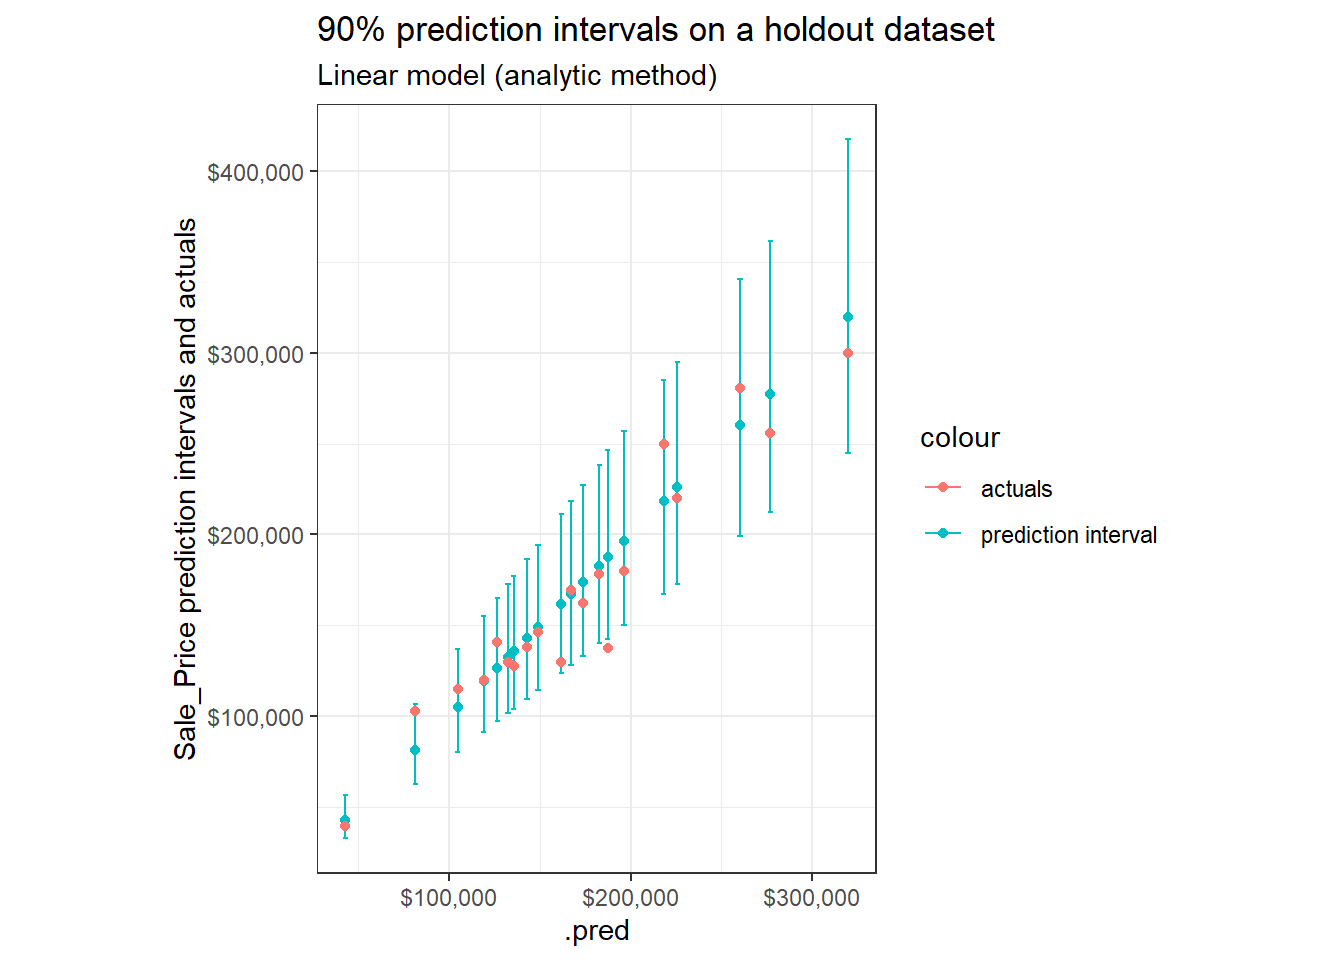
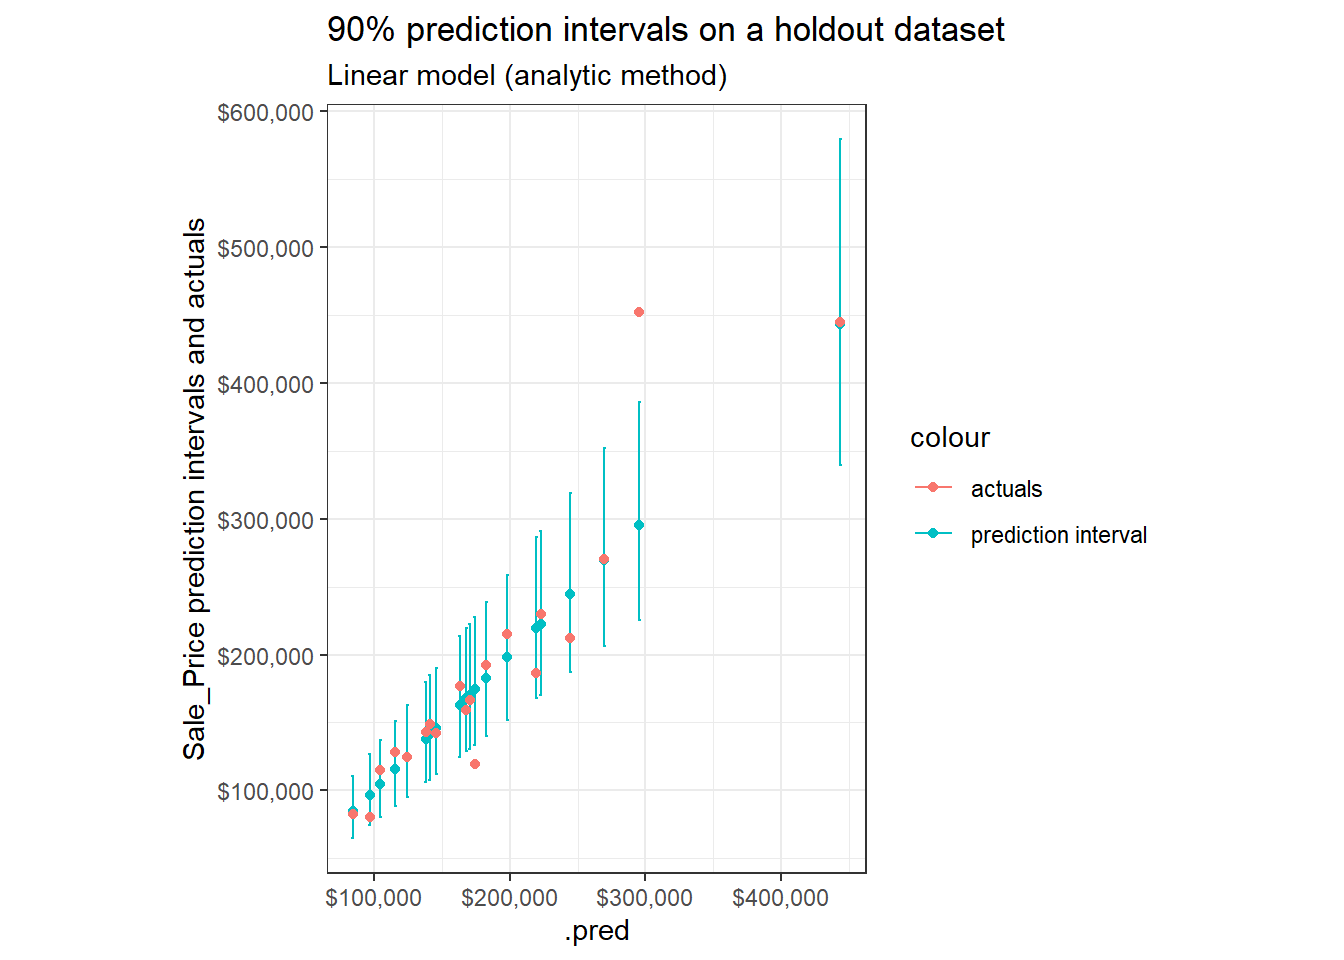
minor updates pred intervals part 1 post

diff --git a/content/post/2021-03-18-intuition-on-uncertainty-of-predictions-introduction-to-prediction-intervals.html b/content/post/2021-03-18-intuition-on-uncertainty-of-predictions-introduction-to-prediction-intervals.html
@@ -88,7 +88,7 @@ set.seed(4595)
 data_split &lt;- initial_split(ames, strata = &quot;Sale_Price&quot;, p = 0.75)
 
 ames_train &lt;- training(data_split)
-ames_holdout  &lt;- testing(data_split)</code></pre>
+ames_holdout  &lt;- testing(data_split) </code></pre>
 <p>Specify preprocessing steps<a href="#fn5" class="footnote-ref" id="fnref5"><sup>5</sup></a> and a multiple linear regression model<a href="#fn6" class="footnote-ref" id="fnref6"><sup>6</sup></a> to predict <em>Sale Price</em> – actually <span class="math inline">\(\log_{10}{(Sale\:Price)}\)</span><a href="#fn7" class="footnote-ref" id="fnref7"><sup>7</sup></a>.</p>
 <pre class="r"><code>lm_recipe &lt;- 
   recipe(
@@ -105,9 +105,9 @@ ames_holdout  &lt;- testing(data_split)</code></pre>
 
 lm_mod &lt;- linear_reg() %&gt;% 
   set_engine(engine = &quot;lm&quot;) %&gt;%
-  set_mode(&quot;regression&quot;)
-
-lm_wf &lt;- workflows::workflow() %&gt;% 
+  set_mode(&quot;regression&quot;)</code></pre>
+<p>Put together into a workflow and fit model:</p>
+<pre class="r"><code>lm_wf &lt;- workflows::workflow() %&gt;% 
   add_model(lm_mod) %&gt;% 
   add_recipe(lm_recipe) %&gt;% 
   fit(ames_train)</code></pre>
@@ -2142,7 +2142,7 @@ preds_intervals %&gt;%
 <p>Let’s view 90% prediction intervals against <em>actual</em> prices on a sample of observations in our holdout dataset:</p>
 <pre class="r"><code>set.seed(1234)
 p &lt;- preds_intervals %&gt;% 
-  mutate(pred_interval = ggplot2::cut_number(.pred, 10)) %&gt;% 
+  mutate(pred_interval = ggplot2::cut_number(Sale_Price, 10)) %&gt;% 
   group_by(pred_interval) %&gt;% 
   sample_n(2) %&gt;% 
   ggplot(aes(x = .pred))+
@@ -2157,9 +2157,10 @@ p &lt;- preds_intervals %&gt;%
 
 p +
   scale_x_log10(labels = scales::dollar)+
-  scale_y_log10(labels = scales::dollar)</code></pre>
+  scale_y_log10(labels = scales::dollar) </code></pre>
 <p><img src="/post/2021-03-18-intuition-on-uncertainty-of-predictions-introduction-to-prediction-intervals_files/figure-html/prediction-intervals-sample-1.png" width="672" /></p>
 <p>Log transformations are applied on the x and y axis. Remember the model was built to predict <span class="math inline">\(\log_{10}{(Sale\:Price)}\)</span> (as opposed to raw <code>Sale_Price</code>)<a href="#fn45" class="footnote-ref" id="fnref45"><sup>45</sup></a>.</p>
+<p>We would expect ~9 out of 10 observations to fall within their bands – which a cursory glance appears to be just about what we see.</p>
 <div id="coverage" class="section level2">
 <h2>Coverage</h2>
 <p>Let’s review what proportion of our holdout observations are actually “covered” by their 90% prediction intervals<a href="#fn46" class="footnote-ref" id="fnref46"><sup>46</sup></a>.</p>
@@ -2532,7 +2533,7 @@ p +
 </table></div>
 <p>~93% of our holdout observations were actually covered<a href="#fn47" class="footnote-ref" id="fnref47"><sup>47</sup></a>. We can likely trust these intervals aren’t too narrow<a href="#fn48" class="footnote-ref" id="fnref48"><sup>48</sup></a>. It is usually better to be on the slightly conservative than optimistic side regarding coverage<a href="#fn49" class="footnote-ref" id="fnref49"><sup>49</sup></a>.</p>
 <p>In addition to reviewing overall coverage, it may be helpful to review coverage across predictions. This may be helpful in providing evidence of whether we have “marginal” or “conditional” coverage<a href="#fn50" class="footnote-ref" id="fnref50"><sup>50</sup></a>.</p>
-<p>The chart below splits the holdout data into five segments ordered by predicted price with equal number of observations<a href="#fn51" class="footnote-ref" id="fnref51"><sup>51</sup></a> and checks the proportion covered over each quintile.</p>
+<p>The chart below splits the holdout data into five segments ordered by predicted price<a href="#fn51" class="footnote-ref" id="fnref51"><sup>51</sup></a> with equal number of observations<a href="#fn52" class="footnote-ref" id="fnref52"><sup>52</sup></a> and checks the proportion covered over each quintile.</p>
 <pre class="r"><code>preds_intervals %&gt;%
   mutate(price_grouped = ggplot2::cut_number(.pred, 5)) %&gt;% 
   mutate(covered = ifelse(Sale_Price &gt;= .pred_lower &amp; Sale_Price &lt;= .pred_upper, 1, 0)) %&gt;% 
@@ -2558,7 +2559,7 @@ p +
        caption = &quot;Error bars represent {coverage} +/- 2 * {coverage standard error}&quot;)+
   theme_bw()</code></pre>
 <p><img src="/post/2021-03-18-intuition-on-uncertainty-of-predictions-introduction-to-prediction-intervals_files/figure-html/unnamed-chunk-9-1.png" width="672" /></p>
-<p>This suggests there may be slightly different levels of coverage at different quintiles (e.g. the cheapest predicted houses have less coverage than those in the 2nd quintile.)<a href="#fn52" class="footnote-ref" id="fnref52"><sup>52</sup></a>.</p>
+<p>This suggests there may be slightly different levels of coverage at different quintiles (e.g. the cheapest predicted houses have less coverage than those in the 2nd quintile.)<a href="#fn53" class="footnote-ref" id="fnref53"><sup>53</sup></a>.</p>
 <p>A test for checking whether variability in the categorical variable <code>covered</code> (covered / not-covered) does not vary across the quintile of predicted <code>Sale_Price</code> (1st, 2nd, 3rd, 4th, 5th) could be done using a <a href="https://en.wikipedia.org/wiki/Chi-squared_test">Chi-square statistical test</a>:</p>
 <pre class="r"><code>preds_intervals %&gt;% 
   mutate(price_grouped = ggplot2::cut_number(.pred, 5)) %&gt;% 
@@ -2587,13 +2588,13 @@ p +
 </tr>
 </tbody>
 </table>
-<p>The results provide evidence that whether an observation is covered or not-covered may depend (to some extent) on which quintile of predicted <code>Sale_Price</code> the observation falls within<a href="#fn53" class="footnote-ref" id="fnref53"><sup>53</sup></a>.</p>
+<p>The results provide evidence that whether an observation is covered or not-covered may depend (to some extent) on which quintile of predicted <code>Sale_Price</code> the observation falls within<a href="#fn54" class="footnote-ref" id="fnref54"><sup>54</sup></a>.</p>
 <p>I will show in a follow-up post on <strong>Simulating Prediction Intervals</strong> intervals that seem to have more consistent coverage rates across predicted <code>Sale_Price</code>.</p>
 </div>
 <div id="interval-width" class="section level2">
 <h2>Interval Width</h2>
 <p>Another helpful way to evaluate prediction intervals is by their width. More narrow bands indicate a more precise model.</p>
-<p>Remember from the section on <a href="#considering-uncertainty">Considering Uncertainty</a> that the errors on raw <code>Sale_Price</code> increase with the size of the prediction. To adjust for this, an appropriate metric is interval width as a percentage of predicted <code>Sale_Price</code><a href="#fn54" class="footnote-ref" id="fnref54"><sup>54</sup></a>. I will review these across quintiles of the predictions.</p>
+<p>Remember from the section on <a href="#considering-uncertainty">Considering Uncertainty</a> that the errors on raw <code>Sale_Price</code> increase with the size of the prediction. To adjust for this, an appropriate metric is interval width as a percentage of predicted <code>Sale_Price</code><a href="#fn55" class="footnote-ref" id="fnref55"><sup>55</sup></a>. I will review these across quintiles of the predictions.</p>
 <pre class="r"><code>lm_interval_widths &lt;- preds_intervals %&gt;% 
   mutate(interval_width = .pred_upper - .pred_lower,
          interval_pred_ratio = interval_width / .pred) %&gt;% 
@@ -3008,7 +3009,7 @@ lm_interval_widths %&gt;%
 </table></div>
 <p>The 90% interval represents an average of ~54% of the predicted <code>Sale_Price</code>. I.e. the difference between the upper and lower bounds of the prediction interval for <code>Sale_Price</code> will be about half of the predicted <code>Sale_Price</code> (to eye-ball this, see <a href="#prediction-intervals-on-raw-sale-price">Prediction Intervals on Raw Sale Price</a>).</p>
 <p>The relative interval width seems to be consistent across values for predicted <code>Sale_Price</code> (~54% for all quintiles). There is also little difference in uncertainty between observations – varying on average less than half a percent between observations as indicated by the standard deviation.</p>
-<p>Recall from <a href="#analytic-method-of-calculating-prediction-intervals">Analytic Method of Calculating Prediction Intervals</a> that the only factor contributing to differences in interval width across predictions is the distance of an observations from the centroid of the data. This has a small impact on relative interval width in our problem (given the number of observations and sample variance – which are treated as constant across observations)<a href="#fn55" class="footnote-ref" id="fnref55"><sup>55</sup></a>. Methods used in future posts will show a greater diversity of interval widths.</p>
+<p>Recall from <a href="#analytic-method-of-calculating-prediction-intervals">Analytic Method of Calculating Prediction Intervals</a> that the only factor contributing to differences in interval width across predictions is the distance of an observations from the centroid of the data. This has a small impact on relative interval width in our problem (given the number of observations and sample variance – which are treated as constant across observations)<a href="#fn56" class="footnote-ref" id="fnref56"><sup>56</sup></a>. Methods used in future posts will show a greater diversity of interval widths.</p>
 </div>
 </div>
 <div id="closing-notes" class="section level1">
@@ -3022,11 +3023,11 @@ lm_interval_widths %&gt;%
 <h2>Bayesian Inference</h2>
 <p>In this and the immediate follow-up posts I approach prediction intervals from a more <a href="https://en.wikipedia.org/wiki/Frequentist_inference">frequentist</a> perspective. However when you really care about thinking through the nature of uncertainty in your model, <a href="https://en.wikipedia.org/wiki/Bayesian_inference">Bayesian</a> methods are often more appropriate. I may cover Bayesian approaches in a future post, in the meantime, here are a few resources:</p>
 <ul>
-<li>The <a href="https://mc-stan.org/">stan</a> computing platform for Bayesian modeling and inference has various excellent R package interfaces. <a href="https://github.com/stan-dev/rstan">rstan</a>, <a href="https://github.com/stan-dev/rstanarm">rstanarm</a>, <a href="https://github.com/paul-buerkner/brms">brms</a> and <a href="https://github.com/mjskay/tidybayes">tidybayes</a> are the ones of greatest interest to me<a href="#fn56" class="footnote-ref" id="fnref56"><sup>56</sup></a>.<br />
+<li>The <a href="https://mc-stan.org/">stan</a> computing platform for Bayesian modeling and inference has various excellent R package interfaces. <a href="https://github.com/stan-dev/rstan">rstan</a>, <a href="https://github.com/stan-dev/rstanarm">rstanarm</a>, <a href="https://github.com/paul-buerkner/brms">brms</a> and <a href="https://github.com/mjskay/tidybayes">tidybayes</a> are the ones of greatest interest to me<a href="#fn57" class="footnote-ref" id="fnref57"><sup>57</sup></a>.<br />
 </li>
 <li>Michael Clark provides a helpful applied <a href="https://m-clark.github.io/bayesian-basics/">introduction</a> to Bayesian analysis in R.</li>
 <li>Note also that you can interact with stan through the <code>parsnip</code> package by setting <code>parsnip::set_engine(engine = "stan")</code> for linear models.</li>
-<li>There is also a python interface, <a href="https://mc-stan.org/users/interfaces/pystan">PyStan</a>. The most popular Bayesian library in python however is <a href="https://github.com/pymc-devs/pymc3">PyMC3</a><a href="#fn57" class="footnote-ref" id="fnref57"><sup>57</sup></a>. You might also check-out <a href="https://blog.tensorflow.org/2018/12/an-introduction-to-probabilistic.html">Tensorflow Probability</a><a href="#fn58" class="footnote-ref" id="fnref58"><sup>58</sup></a>.</li>
+<li>There is also a python interface, <a href="https://mc-stan.org/users/interfaces/pystan">PyStan</a>. The most popular Bayesian library in python however is <a href="https://github.com/pymc-devs/pymc3">PyMC3</a><a href="#fn58" class="footnote-ref" id="fnref58"><sup>58</sup></a>. You might also check-out <a href="https://blog.tensorflow.org/2018/12/an-introduction-to-probabilistic.html">Tensorflow Probability</a><a href="#fn59" class="footnote-ref" id="fnref59"><sup>59</sup></a>.</li>
 </ul>
 </div>
 <div id="pros-cons" class="section level2">
@@ -3040,7 +3041,7 @@ lm_interval_widths %&gt;%
 <ul>
 <li>Less flexible than alternative approaches.</li>
 <li>Prediction intervals produced in this way have a variety of <a href="https://online.stat.psu.edu/stat501/lesson/3/3.3/#paragraph--766">strong assumptions</a> that they depend on (generally more heavily than other approaches).</li>
-<li>Assumes the correct model (If your model overfits, the associated prediction intervals will likely be overly optimistic<a href="#fn59" class="footnote-ref" id="fnref59"><sup>59</sup></a>).</li>
+<li>Assumes the correct model (If your model overfits, the associated prediction intervals will likely be overly optimistic<a href="#fn60" class="footnote-ref" id="fnref60"><sup>60</sup></a>).</li>
 </ul>
 </div>
 <div id="prediction-intervals-on-raw-sale-price" class="section level2">
@@ -3126,14 +3127,15 @@ ls(envir) %&gt;%
 <li id="fn48"><p>Though they are perhaps slightly conservative. To get a better estimate for coverage, we could use cross validation as this will provide estimates for coverage across multiple iterations of model fitting.<a href="#fnref48" class="footnote-back">↩</a></p></li>
 <li id="fn49"><p>As models tend to perform worse than expected when put into production. I.e. it is better that our empirical coverage is greater than our target coverage than less than our target coverage – even if it would be ideal for these to align.<a href="#fnref49" class="footnote-back">↩</a></p></li>
 <li id="fn50"><p>“Marginal” coverage generally means “on average across observations”, whereas “conditional” coverage means conditioned on the specific attributes for an observation. Hence “90%” marginal coverage allows that coverage may be higher in some areas and lower in others. 90% conditional coverage means that the conditional rate should be 90% across observations. “Conditional” coverage is generally harder to get than “marginal” coverage and is actually impossible to achieve without some assumptions.<a href="#fnref50" class="footnote-back">↩</a></p></li>
-<li id="fn51"><p>Mostly equal – there are 146 or 147 observations summarized in each row.<a href="#fnref51" class="footnote-back">↩</a></p></li>
-<li id="fn52"><p>Not shown here, but it may also be valuable to review your coverage levels across key variables of interest.<a href="#fnref52" class="footnote-back">↩</a></p></li>
-<li id="fn53"><p>More explicitly, this test shows that the distribution of <code>price_grouped by quintile</code> across <code>covered</code> would only occur ~3.4% of the time under the assumption of “no relationship”. This is very unlikely, so we reject the NULL hypothesis of “no relationship”.<a href="#fnref53" class="footnote-back">↩</a></p></li>
-<li id="fn54"><p>Alternatively could just have evaluated the interval widths in the <code>log(Sale_Price, 10)</code> terms outputted by the model.<a href="#fnref54" class="footnote-back">↩</a></p></li>
-<li id="fn55"><p>While the seesaw analogy does make a difference in causing some observations to have wider intervals than others, in aggregate you can see the difference is not <em>that</em> big – values like the Mean Squared Error (MSE) or similar aggregate error metrics actually give a pretty close semblance of what you will expect to get when going through the process of creating prediction intervals specific to each observation. Note also however that the difference in interval width will still be greater for the more extreme observations. In future posts some of the methods I walk through will be more flexible or have other advantages (e.g. less strict reliance on distributional assumptions).<a href="#fnref55" class="footnote-back">↩</a></p></li>
-<li id="fn56"><p>Along with <a href="https://github.com/rmcelreath/rethinking">rethinking</a> which supports the “Statistical Rethinking” <a href="https://xcelab.net/rm/statistical-rethinking/">book</a> and <a href="https://www.youtube.com/channel/UCNJK6_DZvcMqNSzQdEkzvzA/playlists">course</a> – also see <a href="https://bookdown.org/content/4857/">study guide</a><a href="#fnref56" class="footnote-back">↩</a></p></li>
-<li id="fn57"><p>PyMC3 is built on Theano. If you are wondering why this is not being updated to rely on tensorflow (as many other tools based on theano have been), read <a href="https://pymc-devs.medium.com/the-future-of-pymc3-or-theano-is-dead-long-live-theano-d8005f8a0e9b">The Future of PyMC3, or: Theano is Dead, Long Live Theano</a>.<a href="#fnref57" class="footnote-back">↩</a></p></li>
-<li id="fn58"><p>See <a href="https://www.youtube.com/watch?v=_U-1kJo76o4">video</a> explaining how it uses Bayesian methods to provide uncertainty for parameter estimates in tensorflow).<a href="#fnref58" class="footnote-back">↩</a></p></li>
-<li id="fn59"><p>Though linear models are less likely to overfit compared to most model types.<a href="#fnref59" class="footnote-back">↩</a></p></li>
+<li id="fn51"><p>I ended-up splitting these based on predicted price. I think it may have made more sense actually to split these based on actual <code>Sale_Price</code>. One of the chief reasons is that in future posts I view these same charts and by splitting it across predictions the groups are based on the predictions and intervals rather than on the actual values of the data. This means that it is possible that if the predictions change the groups change – hence future posts tests / comparisons may not be perfectly comparable.<a href="#fnref51" class="footnote-back">↩</a></p></li>
+<li id="fn52"><p>Mostly equal – there are 146 or 147 observations summarized in each row.<a href="#fnref52" class="footnote-back">↩</a></p></li>
+<li id="fn53"><p>Not shown here, but it may also be valuable to review your coverage levels across key variables of interest.<a href="#fnref53" class="footnote-back">↩</a></p></li>
+<li id="fn54"><p>More explicitly, this test shows that the distribution of <code>price_grouped by quintile</code> across <code>covered</code> would only occur ~3.4% of the time under the assumption of “no relationship”. This is very unlikely, so we reject the NULL hypothesis of “no relationship”.<a href="#fnref54" class="footnote-back">↩</a></p></li>
+<li id="fn55"><p>Alternatively could just have evaluated the interval widths in the <code>log(Sale_Price, 10)</code> terms outputted by the model.<a href="#fnref55" class="footnote-back">↩</a></p></li>
+<li id="fn56"><p>While the seesaw analogy does make a difference in causing some observations to have wider intervals than others, in aggregate you can see the difference is not <em>that</em> big – values like the Mean Squared Error (MSE) or similar aggregate error metrics actually give a pretty close semblance of what you will expect to get when going through the process of creating prediction intervals specific to each observation. Note also however that the difference in interval width will still be greater for the more extreme observations. In future posts some of the methods I walk through will be more flexible or have other advantages (e.g. less strict reliance on distributional assumptions).<a href="#fnref56" class="footnote-back">↩</a></p></li>
+<li id="fn57"><p>Along with <a href="https://github.com/rmcelreath/rethinking">rethinking</a> which supports the “Statistical Rethinking” <a href="https://xcelab.net/rm/statistical-rethinking/">book</a> and <a href="https://www.youtube.com/channel/UCNJK6_DZvcMqNSzQdEkzvzA/playlists">course</a> – also see <a href="https://bookdown.org/content/4857/">study guide</a><a href="#fnref57" class="footnote-back">↩</a></p></li>
+<li id="fn58"><p>PyMC3 is built on Theano. If you are wondering why this is not being updated to rely on tensorflow (as many other tools based on theano have been), read <a href="https://pymc-devs.medium.com/the-future-of-pymc3-or-theano-is-dead-long-live-theano-d8005f8a0e9b">The Future of PyMC3, or: Theano is Dead, Long Live Theano</a>.<a href="#fnref58" class="footnote-back">↩</a></p></li>
+<li id="fn59"><p>See <a href="https://www.youtube.com/watch?v=_U-1kJo76o4">video</a> explaining how it uses Bayesian methods to provide uncertainty for parameter estimates in tensorflow).<a href="#fnref59" class="footnote-back">↩</a></p></li>
+<li id="fn60"><p>Though linear models are less likely to overfit compared to most model types.<a href="#fnref60" class="footnote-back">↩</a></p></li>
 </ol>
 </div>

diff --git a/layouts/shortcodes/blogdown/postref.html b/layouts/shortcodes/blogdown/postref.html
@@ -1,0 +1,1 @@
+{{ if eq (getenv "BLOGDOWN_POST_RELREF") "true" }}{{ .Page.RelPermalink }}{{ else }}{{ .Page.Permalink }}{{ end }}
